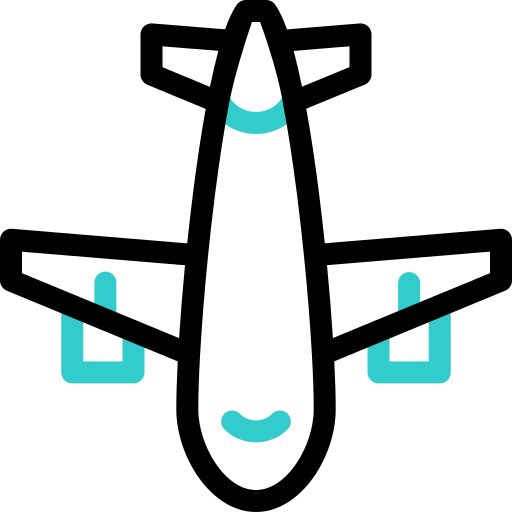
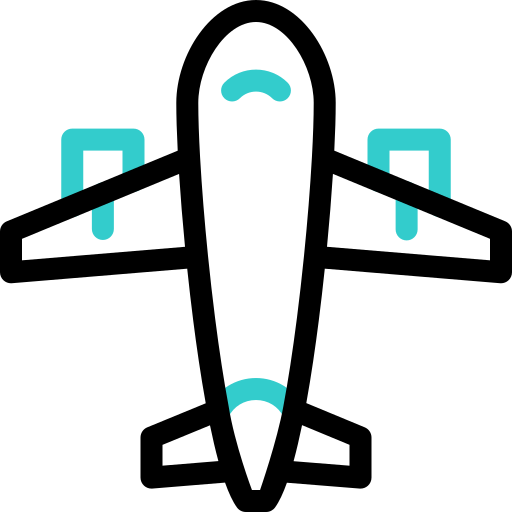
edit and delete file

diff --git a/CSS/Css task/Animation/airplane.css b/CSS/Css task/Animation/airplane.css
@@ -51,32 +51,52 @@ main{
 }
 
 .spot-3{
-    transform: translate(41rem,28rem);
+    transform: translate(44rem,3.8rem);
+    
 }
 
 .spot-4{
-    transform: translate(69rem,29rem);
-}
-
-.spot-5{
     transform: translate(61rem,9.5rem);
 }
 
+.spot-5{
+    transform: translate(69rem,29rem);
+}
+
 .spot-6{
-    transform: translate(44rem,3.8rem);
+    transform: translate(41rem,28rem);
+}
+
+.spot-7{
+    transform: translate(22rem,20rem);
 }
 
 
-.airplane{
+.airplane-1{
     position: absolute;
     width: 70px;
     height: auto;
     z-index: 3;
-
-    top: 9rem;
-    left: 9rem;
-    animation: planeMove 59s linear 1s 2 alternate ;
 }
+
+.airplane{
+    position: absolute;
+    z-index: 3;
+    width: 70px;
+    height: auto;
+    /* animation: rotate 3s linear 1s 2 alternate; */
+    animation: planeMove 30s linear 1s 2 reverse
+}
+
+/* .airplane-box{
+    border: 1px solid red ;
+    position: absolute;
+    z-index: 3;
+    transform: translate(8.5rem,8.5rem);
+    transform: translate(20.6rem,19rem);
+    transform: translate(19.5rem,30.5rem);
+}
+ */
 
 @keyframes  planeMove {
     0%{
@@ -147,3 +167,65 @@ main{
     }
     
 }
+/* 
+@keyframes  planeMove {
+  0%{
+    transform: translate(8.5rem,8.5rem);
+  }
+  5%{
+    transform: translate(20.6rem,19rem);
+  } 
+  10%{
+    transform: translate(19.5rem,30.5rem);
+  }
+  20%{
+    transform: translate(19.5rem,30.5rem);
+  }
+
+  21%{}
+  25%{}
+  26%{}
+  30%{}
+  31%{}
+  35%{}
+  36%{}
+  40%{}
+
+
+  41%{}
+  45%{}
+  50%{}
+  51%{}
+  55%{} 
+  56%{}
+  60%{}
+
+
+  61%{}
+  65%{}
+  66%{}
+  70%{}
+  71%{}
+  75%{}
+  76%{}
+  80%{}
+
+  81%{}
+  85%{}
+  86%{}
+  90%{}
+  91%{}
+  95%{}
+  96%{}
+  100%{}
+}
+
+
+@keyframes rotate {
+    0%{
+        transform: rotate(0deg);
+    }
+    100%{
+        transform: rotate(90deg);
+    }
+} */

diff --git a/CSS/Css task/Animation/airplane.html b/CSS/Css task/Animation/airplane.html
@@ -11,11 +11,13 @@
         <div class="main-bg-image">
             <span class="spot spot-1">1</span>
             <span class="spot spot-2">2</span>
-            <span class="spot spot-3">6</span>
-            <span class="spot spot-4">5</span>
-            <span class="spot spot-5">4</span>
-            <span class="spot spot-6">3</span>
-            <div><img src="images/airplane (1).png" alt="" class="airplane"></div>
+            <span class="spot spot-3">3</span>
+            <span class="spot spot-4">4</span>
+            <span class="spot spot-5">5</span>
+            <span class="spot spot-6">6</span>
+            <span class="spot spot-7">7</span>
+            <div class="airplane-box"><img src="images/airplane-2.png" alt="" class="airplane"></div>
+            <div><img src="images/airplane-2.png" alt="" class="airplane-1"></div>
         </div>
     </main>
 </body>
